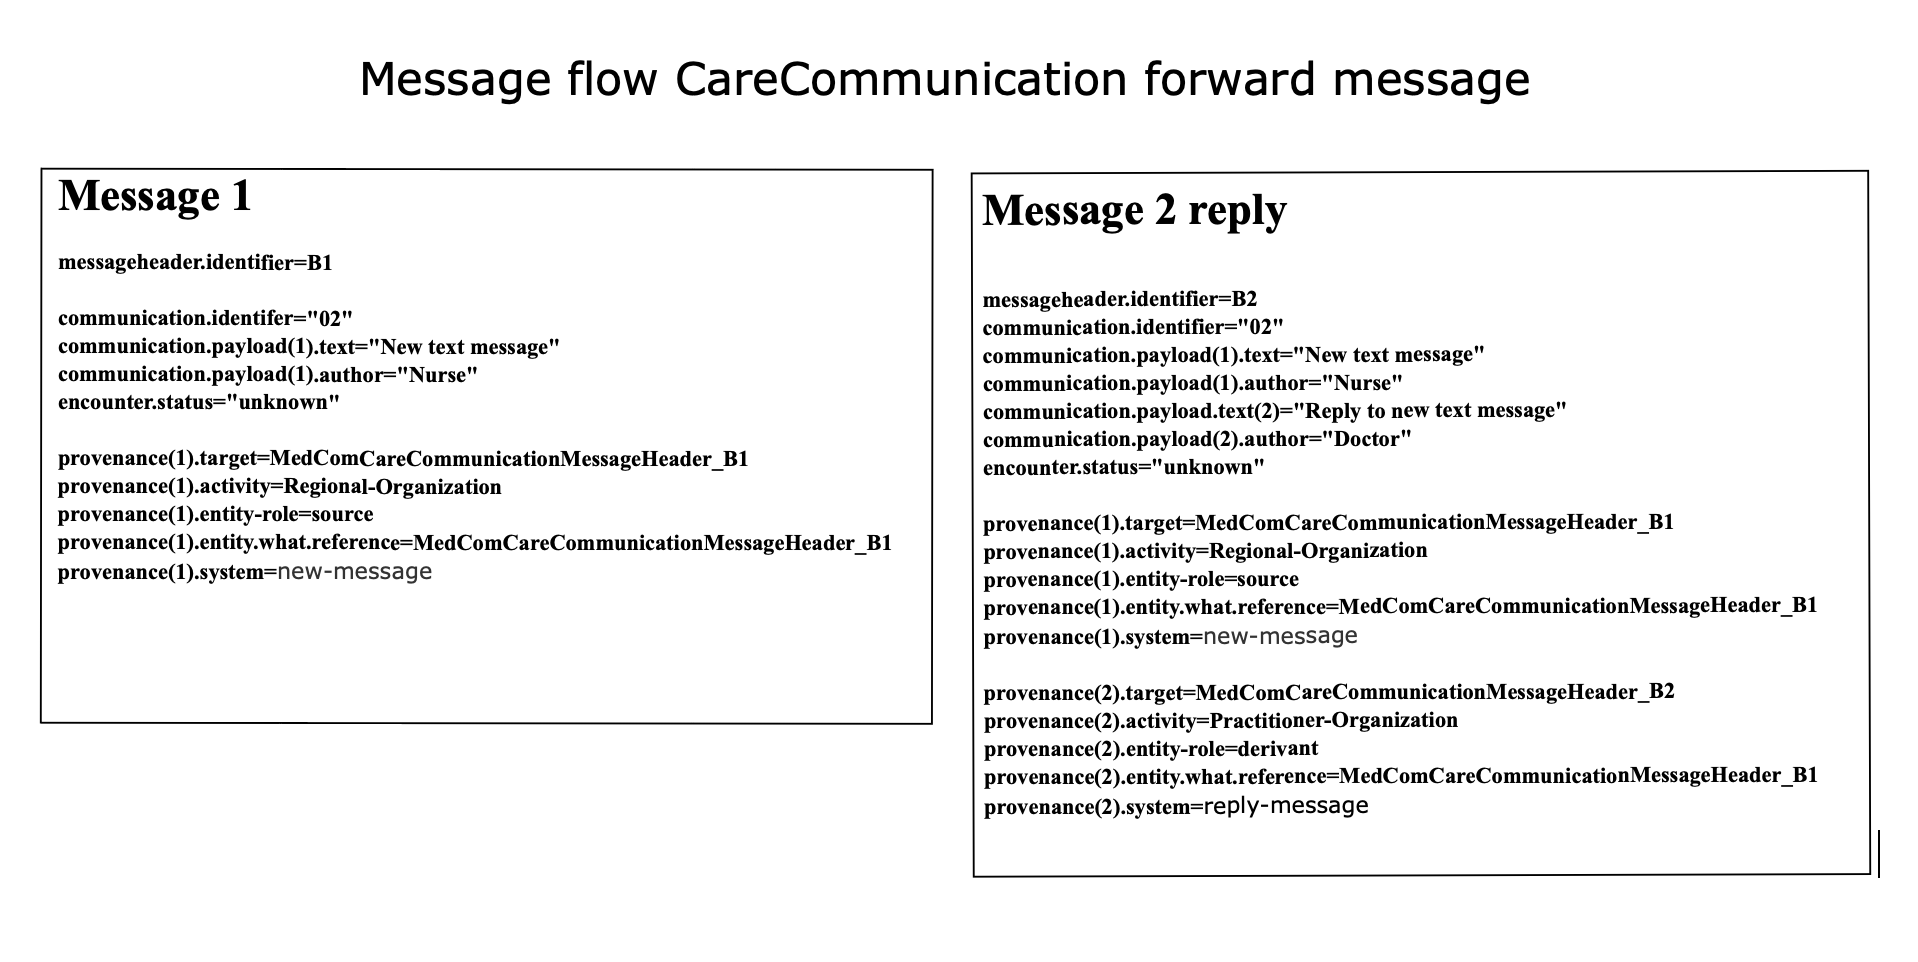
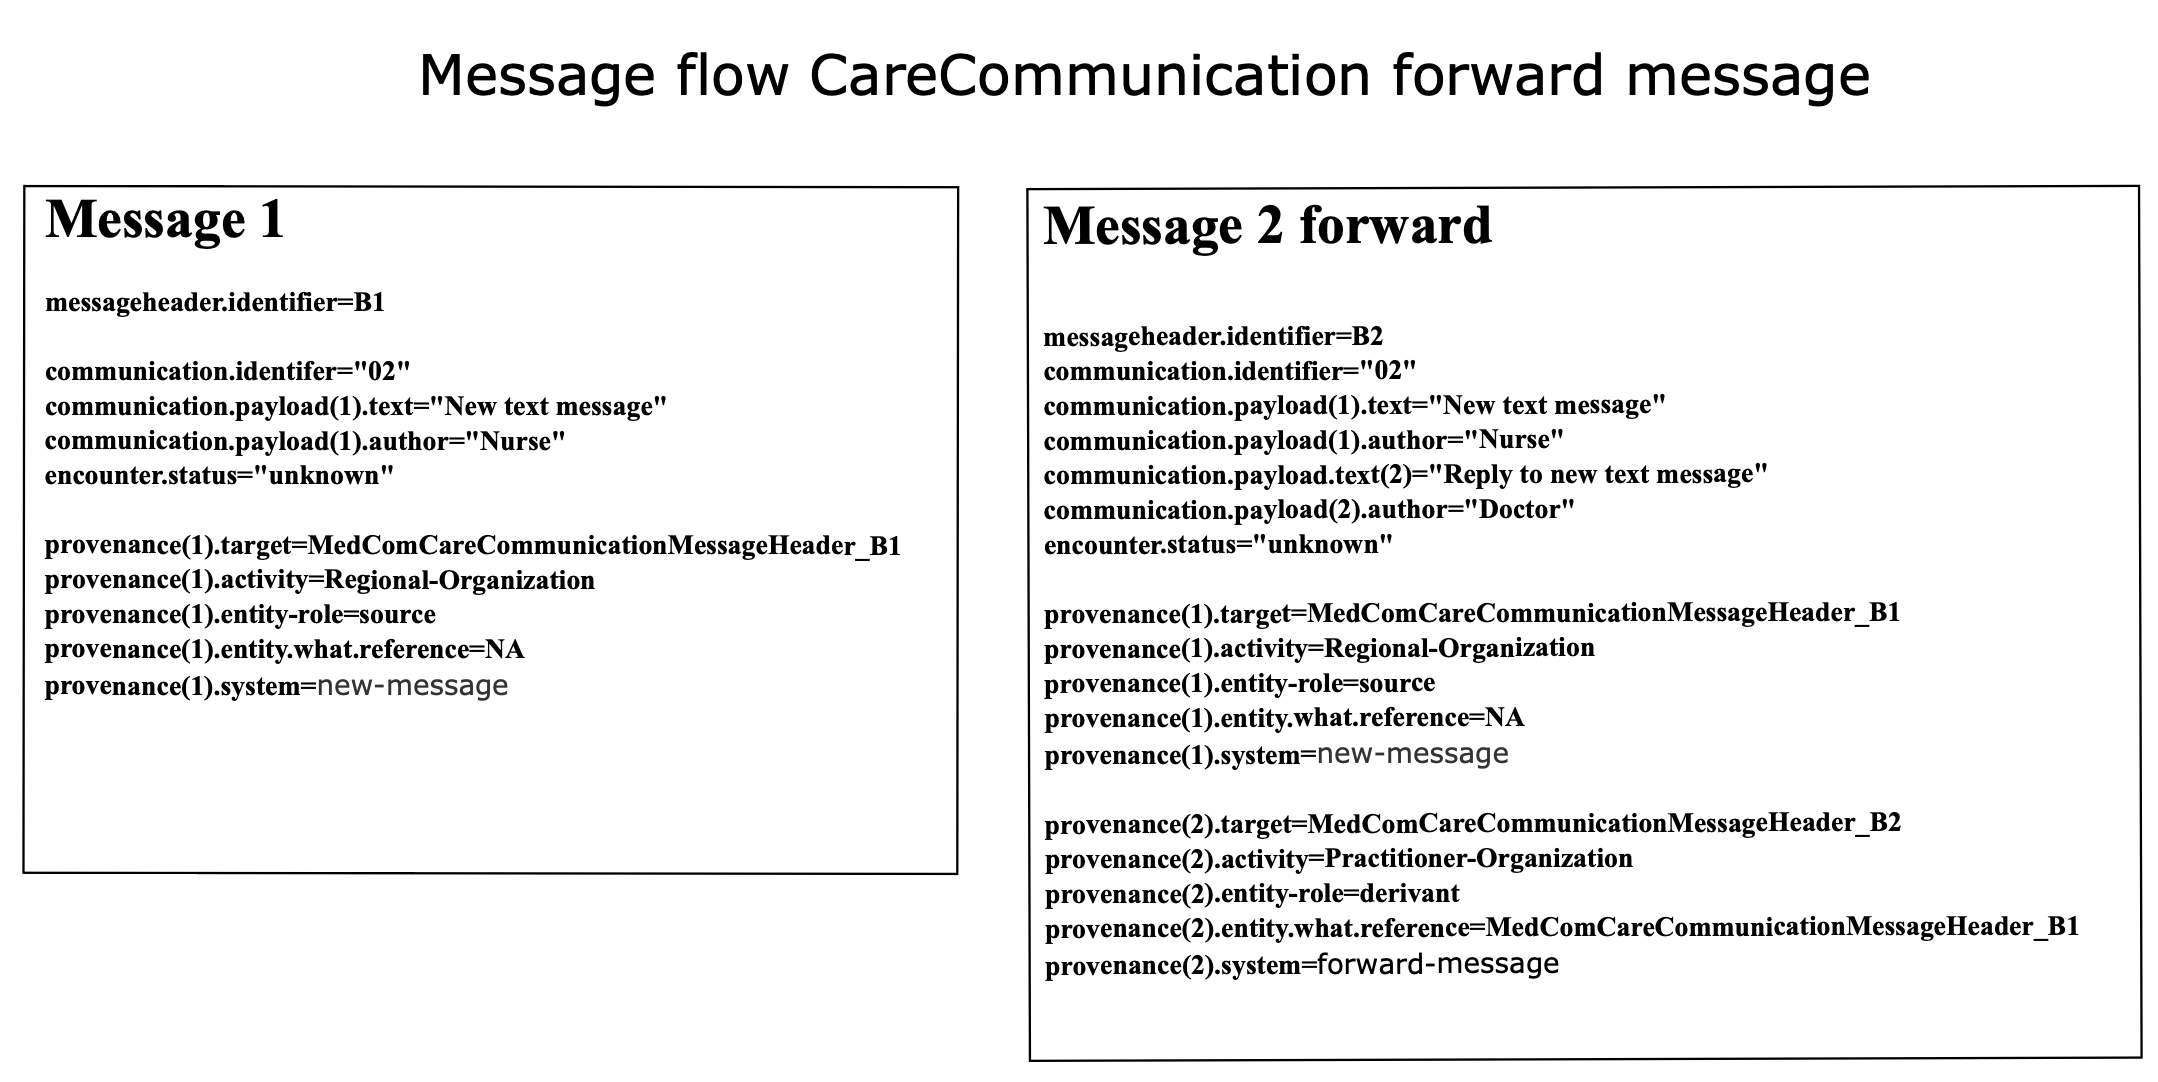
Corrected entity.who.reference and added examples

diff --git a/input/pagecontent/StructureDefinition-medcom-hospitalNotification-message-notes.md b/input/pagecontent/StructureDefinition-medcom-hospitalNotification-message-notes.md
@@ -3,8 +3,6 @@ This section describes how to handle  HospitalNotificationMessages and how to ha
 #### How to send HospitalNotification Messages for the same encounter
 This section describes how a HospitalNotificationMessage flow.
 
-Each HospitalNotificationMessage message/notification is a seperate messages where only the encounter *id* and the episodeOfCare *identifier* relates the messages.
-
 
 The change of state is dispicted in both the MedComHospitalNotificationEncounter *status*/*class* and the MedComCoreProvenance element *system*.
 Please refer to following map document for details (The document text is at present only in danish).
@@ -13,10 +11,14 @@ Please refer to following map document for details (The document text is at pres
 
 Please refer to following example:
 * [Simplified example of a MedComHospitalNotificationMessage for admit and finished stay ](./hospitalnotification/HospitalNotificationAdmitFinishedExample.png)
-
+* [Simplified example of a MedComHospitalNotificationMessage for admit, onleave, end onleave and finished stay ](./hospitalnotification/HospitalNotificationAdmitOnleaveFinishedExample.png)
 
 #### Message entered in error  
 This section describes how message entered in error shall be handled.
 
 Please refer to the following examples:
-* [Simplified example of a MedComHospitalNotificationMessage for admit and finished stay ](./hospitalnotification/HospitalNotificationEnteredInErrorExample.png)
+* [Simplified example of a MedComHospitalNotificationMessage entered in error ](./hospitalnotification/HospitalNotificationEnteredInErrorExample.png)
+
+#### Data references between MedCom OIOXML advis standard and the MedCom FHIR profile
+Please refer to:
+* [OIOXML advis -> HospitalNotification ](./hospitalnotification/oioxmlReferencesHospitalNotificaion.png)

diff --git a/input/pagecontent/StructureDefinition-medcom-careCommunication-message-notes.md b/input/pagecontent/StructureDefinition-medcom-careCommunication-message-notes.md
@@ -7,8 +7,12 @@ Please refer to following example:
 
 #### How to forward a MedComCareCommunicationMessage
 This section describes how a CareCommunicationMessage forward flow shall be handled.
+
 Please refer to following example:
 * [Simplified example of a MedComCareCommunicationMessage forward message ](./carecommunication/CareCommunicationForwardExample.png)
+
+The provenance element always references the last message transmitted, please refer to the example below for an example:
+* [Simplified example of a MedComCareCommunicationMessage forward a reply message ](./carecommunication/CareCommunicationForwardReplyExample.png)
 
 #### Message entered in error  
 This section describes how message entered in error shall be handled.
@@ -17,3 +21,7 @@ using the MedComCoreEncounter status "entered-in-error" and letting the provenan
 Please refer to the following examples:
 * [Simplified example of a MedComCareCommunicationMessage where original message is entered in error  ](./carecommunication/CareCommunicationSenderEnteredInErrorExample.png)
 * [Simplified example of a MedComCareCommunicationMessage where message reply is entered in error  ](./carecommunication/CareCommunicationReplyEnteredInErrorExample.png)
+
+#### Data references between MedCom XDIS91 standard and the MedCom FHIR CareCommunication profile
+Please refer to:
+* [XDIS91 -> CareCommunication  ](./carecommunication/oioxmlReferencesCareCommunication.png)

diff --git a/input/pagecontent/StructureDefinition-medcom-careCommunication-message-intro.md b/input/pagecontent/StructureDefinition-medcom-careCommunication-message-intro.md
@@ -7,5 +7,5 @@ The Bundle containing the CareCommunication message shall contain one instance o
 
 Please refer to the tab "Snapshort Table(Must support)" below for the definition of the required content of a MedComCareCommunicationMessage.
 
-For decription of how to handle message references when sending a reply or forward a MedComCareCommunicationMessage and handling of errors please refer to the section "Notes".
+For decription of how to handle message references when sending a reply or forward a MedComCareCommunicationMessage, handling of errors and references between XDIS91 and CareCommunication please refer to the section "Notes".
 The section "Notes" if found at the end of this page.

diff --git a/input/pagecontent/StructureDefinition-medcom-hospitalNotification-message-intro.md b/input/pagecontent/StructureDefinition-medcom-hospitalNotification-message-intro.md
@@ -7,5 +7,5 @@ The Bundle containing the HospitalNotification message shall contain one instanc
 
 Please refer to the tab "Snapshort Table(Must support)" below for the definition of the required content of a MedComHospitalNotificationMessage.
 
-For decription of how to handle the different types of messages and handling of errors please refer to the section "Notes".
+For decription of how to handle the different types of messages, handling of errors and references between OIOXML advis and the HospitalNotification message please refer to the section "Notes".
 The section "Notes" if found at the end of this page.
